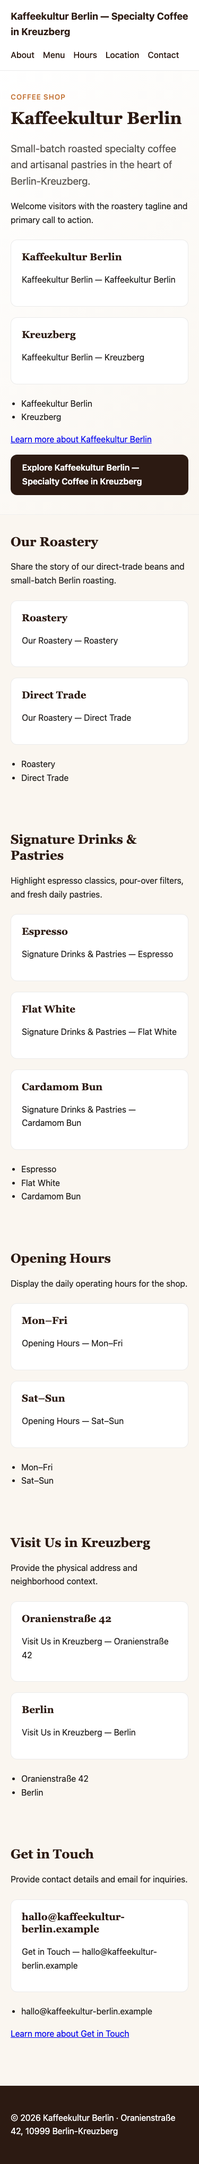
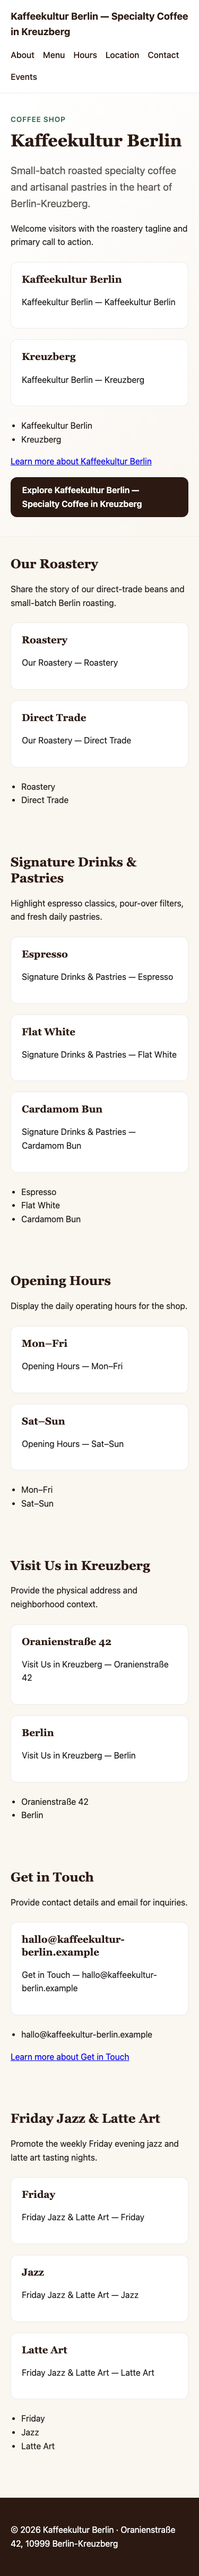
feat(kaffeekultur-berlin): update website for issue #9

diff --git a/sites/kaffeekultur-berlin/index.html b/sites/kaffeekultur-berlin/index.html
@@ -17,6 +17,7 @@
           <li><a href="#hours">Hours</a></li>
           <li><a href="#location">Location</a></li>
           <li><a href="#contact">Contact</a></li>
+          <li><a href="#events">Events</a></li>
         </ul>
       </nav>
     </div>
@@ -127,6 +128,25 @@
           <li>hallo@kaffeekultur-berlin.example</li>
         </ul>
         <p><a class="text-link" href="#about">Learn more about Get in Touch</a></p>
+      </div>
+    </section>
+
+    <section id="events" class="section content-section">
+      <div class="container">
+        <div class="section-header">
+          <h2>Friday Jazz &amp; Latte Art</h2>
+          <p class="section-purpose">Promote the weekly Friday evening jazz and latte art tasting nights.</p>
+        </div>
+        <div class="cards-grid">
+          <article class="card"><h3>Friday</h3><p>Friday Jazz &amp; Latte Art — Friday</p></article>
+          <article class="card"><h3>Jazz</h3><p>Friday Jazz &amp; Latte Art — Jazz</p></article>
+          <article class="card"><h3>Latte Art</h3><p>Friday Jazz &amp; Latte Art — Latte Art</p></article>
+        </div>
+        <ul class="feature-list">
+          <li>Friday</li>
+          <li>Jazz</li>
+          <li>Latte Art</li>
+        </ul>
       </div>
     </section>
 

diff --git a/sites/kaffeekultur-berlin/styles.css b/sites/kaffeekultur-berlin/styles.css
@@ -1,7 +1,7 @@
 :root {
   --color-primary: #2C1A12;
   --color-bg: #FAF6F0;
-  --color-accent: #C87D44;
+  --color-accent: #2D6A4F;
   --color-surface: #ffffff;
   --color-text: #1c1917;
   --color-muted: #57534e;
